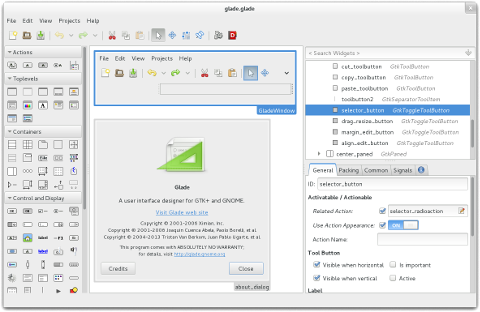
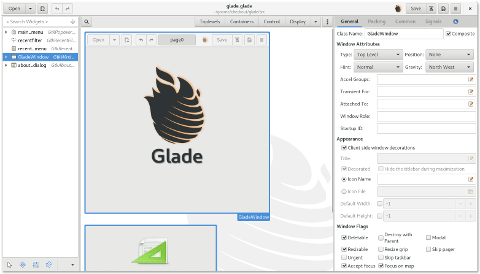
Add news about 3.21.0

Changed region(s): [[0.0, 0.0, 1.0, 0.9927], [0.4062, 0.2044, 0.5625, 0.2628]]

diff --git a/newsitems.py b/newsitems.py
@@ -15,6 +15,13 @@ item = lambda *x: items.append(x)
 
 # http://news.gmane.org/gmane.comp.gnome.gtk%2B.python/
 
+item("""Glade 3.21.0 released""", (2017, 12, 30),
+     """
+    <p>Glade 3.21.0 is now available for download.</p>
+    <p>It has a new modern UI for an improved, more streamline GUI design workflow.</p>
+    <p> <a href="http://lists.ximian.com/pipermail/glade-devel/2017-December/002120.html">3.21.0 release notes</a> for more details.</p>
+     """, 'Juan Pablo Ugarte')
+
 item("""Glade 3.20.2 released""", (2017, 11, 26),
      """
     <p>Glade 3.20.2 is now available for download.</p>
